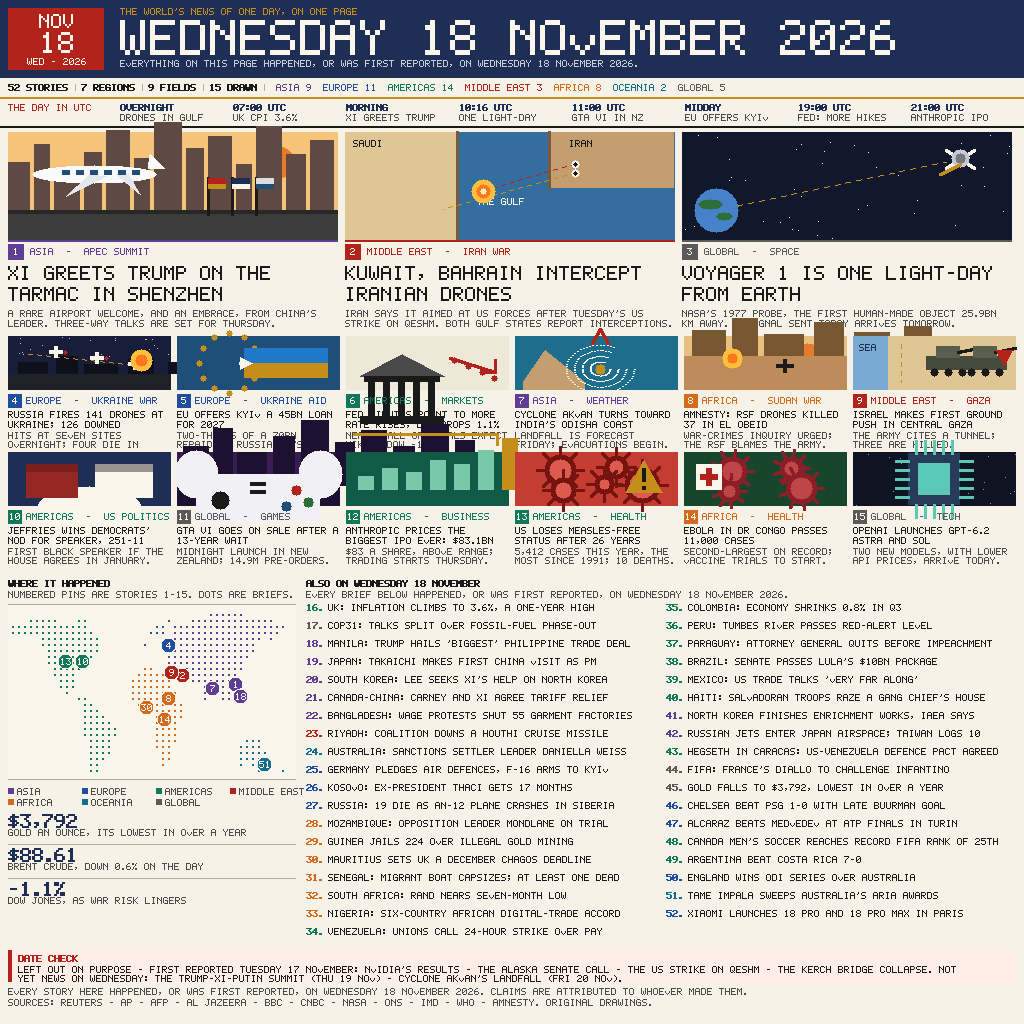
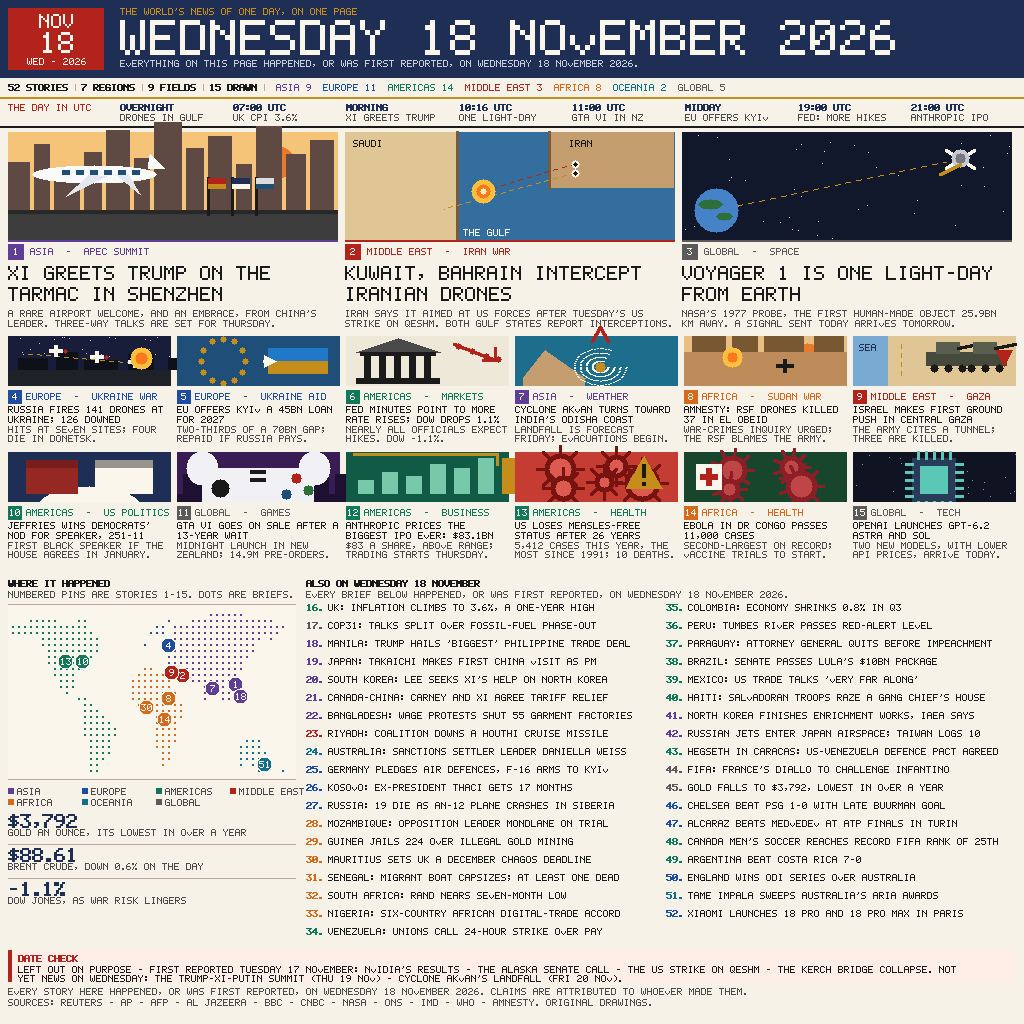
Round 2 fix: clip tile art to its band so no illustration overwrites text
Gulf label moved clear of the explosion, Fed building and arrow
redrawn compact, EU flag shrunk, cyclone spiral shrunk, GTA and
Anthropic art capped to the art band, tile 4 deck shortened to fit.
Re-rendered deterministically (two runs, same sha256), 59,151 bytes.

Changed region(s): [[0.0, 0.3125, 1.0, 0.5625]]

diff --git a/main.py b/main.py
@@ -12,7 +12,10 @@ import sys
 
 HERE = os.path.dirname(os.path.abspath(__file__))
 SRC = os.path.join(HERE, "entry.png")
-# The image is 1024 by 1024 pixels and 60,360 bytes, drawn for round 2.
+# The image is 1024 by 1024 pixels and 59,151 bytes, drawn for round 2.
+# Round 2 fix pass: every tile's art is clipped to its own band, so no
+# illustration overwrites the headline or deck below it, and tile 4's
+# deck was shortened to fit its two lines.
 
 
 def main():

diff --git a/README.md b/README.md
@@ -22,6 +22,10 @@ reported, on Wednesday 18 November 2026.
   measles milestone, Ebola past 11,000 cases, and GPT-6.2.
 - Thirty-seven briefs, from UK inflation to Xiaomi's Paris launch, and a
   market strip: gold $3,792, Brent $88.61, Dow -1.1%.
+- Round 2 fix pass: every tile's illustration is clipped to its own band,
+  so no art overwrites the headline or deck below it; the Gulf label, the
+  Fed chart, the EU flag and the cyclone spiral were all redrawn clear of
+  the text, and tile 4's deck was shortened to fit its two lines.
 
 ## Run it
 
